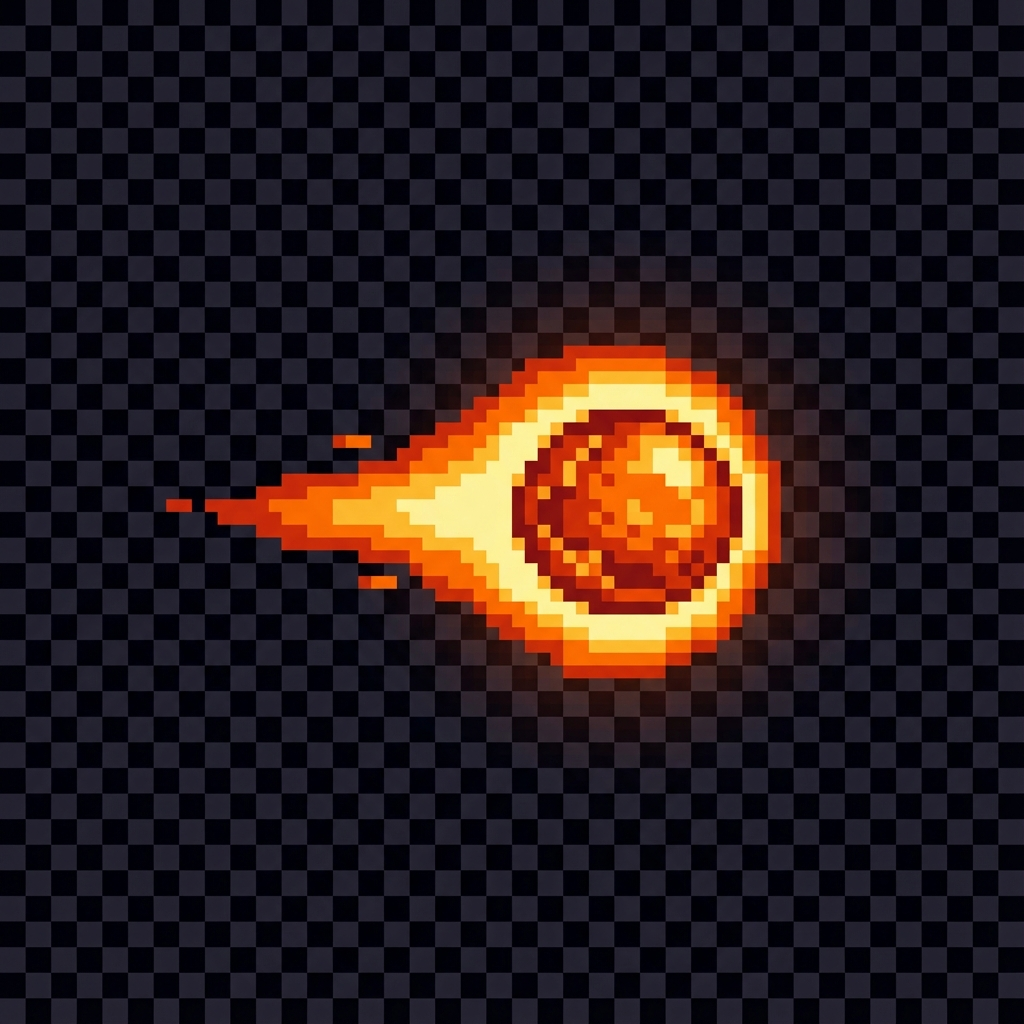
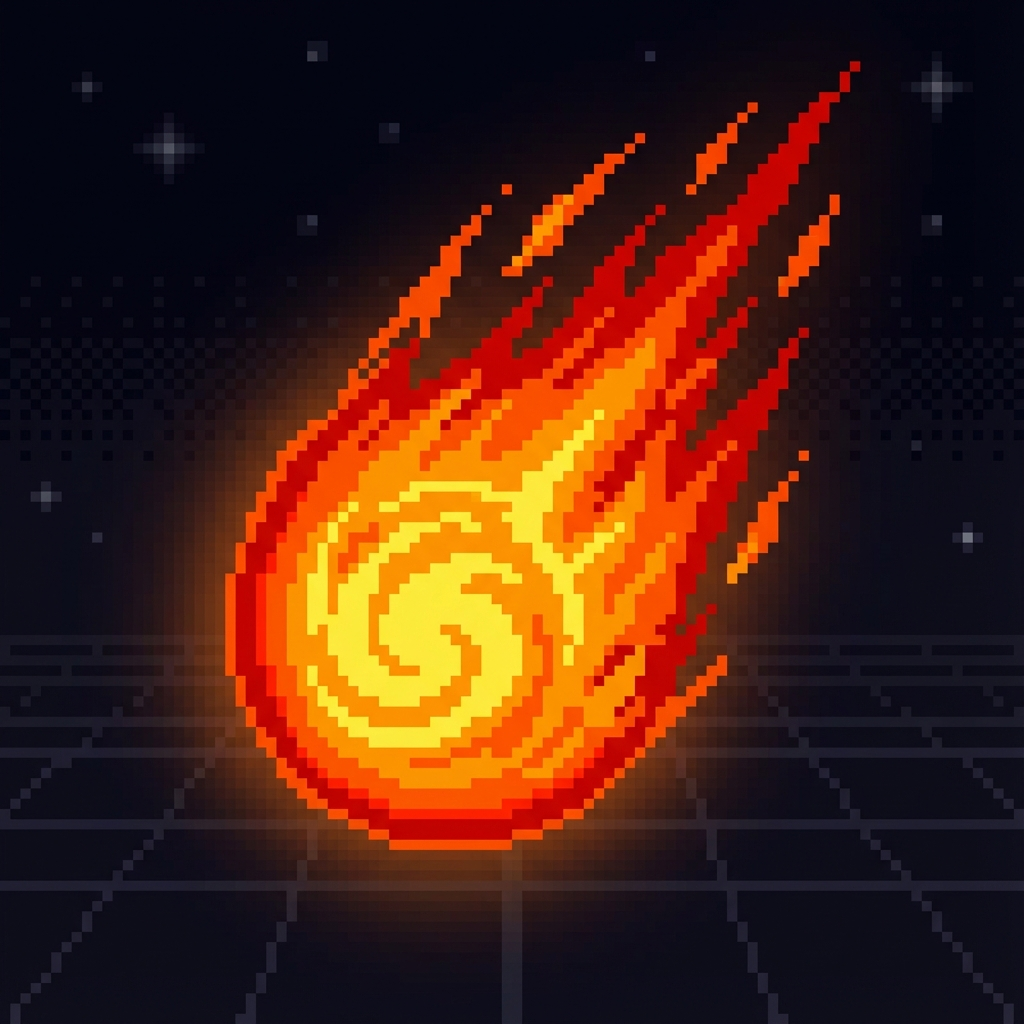
art: New dragon sprite (viewed from below, mouth facing down) + larger fireball (45px)

diff --git a/BossManager.js b/BossManager.js
@@ -15,7 +15,7 @@ const BOSS_TYPES = {
         attackInterval: 3000, // 每 3 秒攻擊
         projectileSprite: 'assets/projectile_fireball.png',
         projectileSpeed: 4,
-        projectileSize: 30,
+        projectileSize: 45,  // 更大的火球
         color: '#ff4444'
     }
     // 未來可加入: kraken, mecha

diff --git a/brick-breaker/BossManager.js b/brick-breaker/BossManager.js
@@ -15,7 +15,7 @@ const BOSS_TYPES = {
         attackInterval: 3000, // 每 3 秒攻擊
         projectileSprite: 'assets/projectile_fireball.png',
         projectileSpeed: 4,
-        projectileSize: 30,
+        projectileSize: 45,  // 更大的火球
         color: '#ff4444'
     }
     // 未來可加入: kraken, mecha
